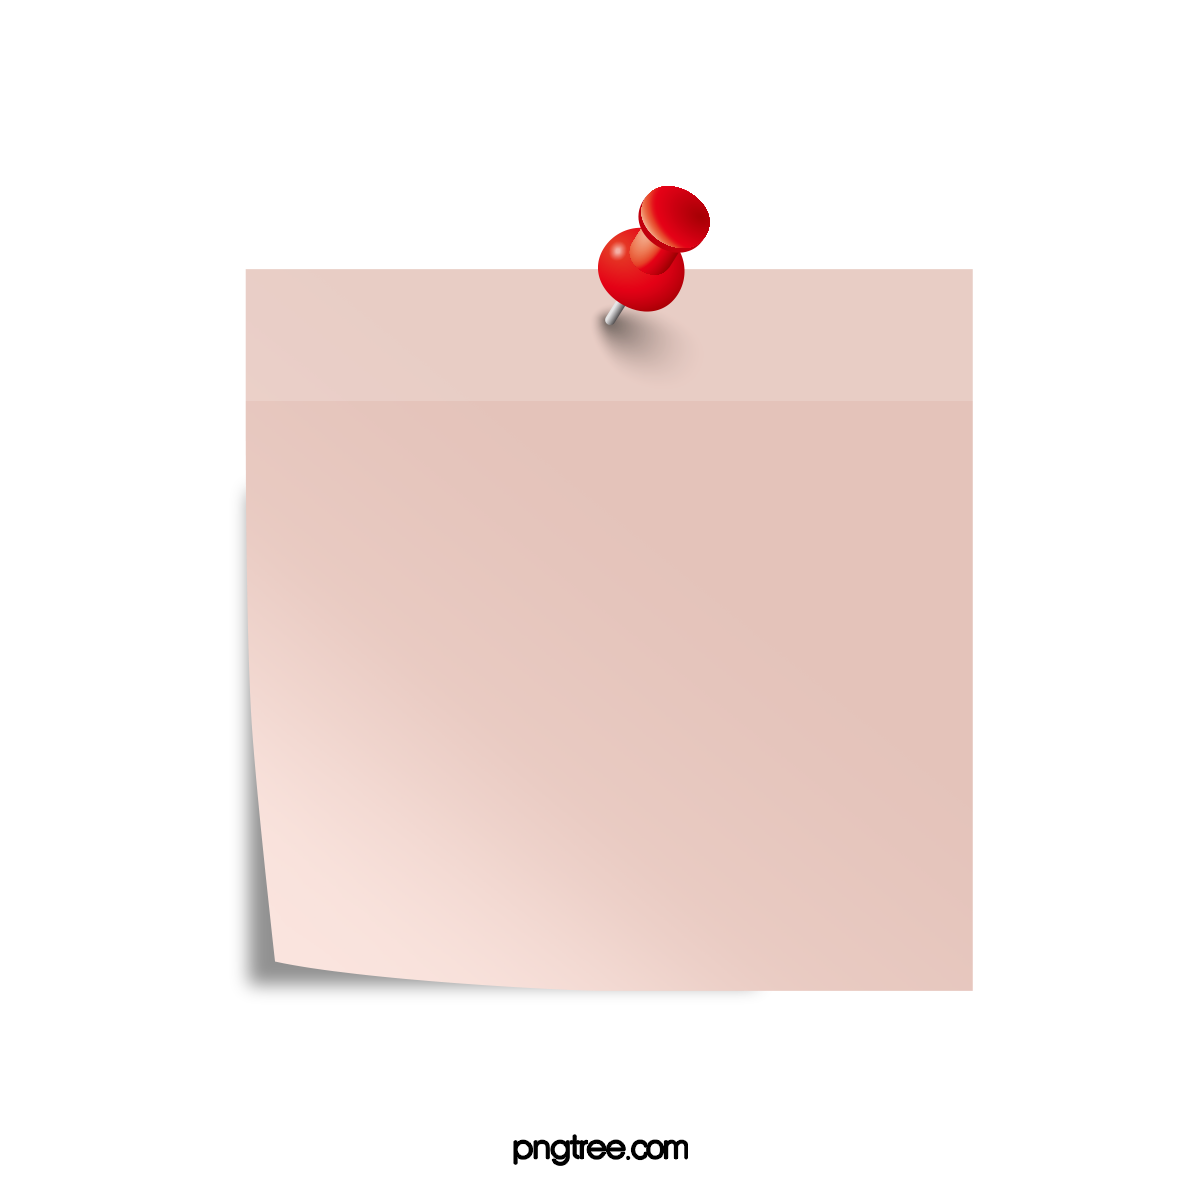
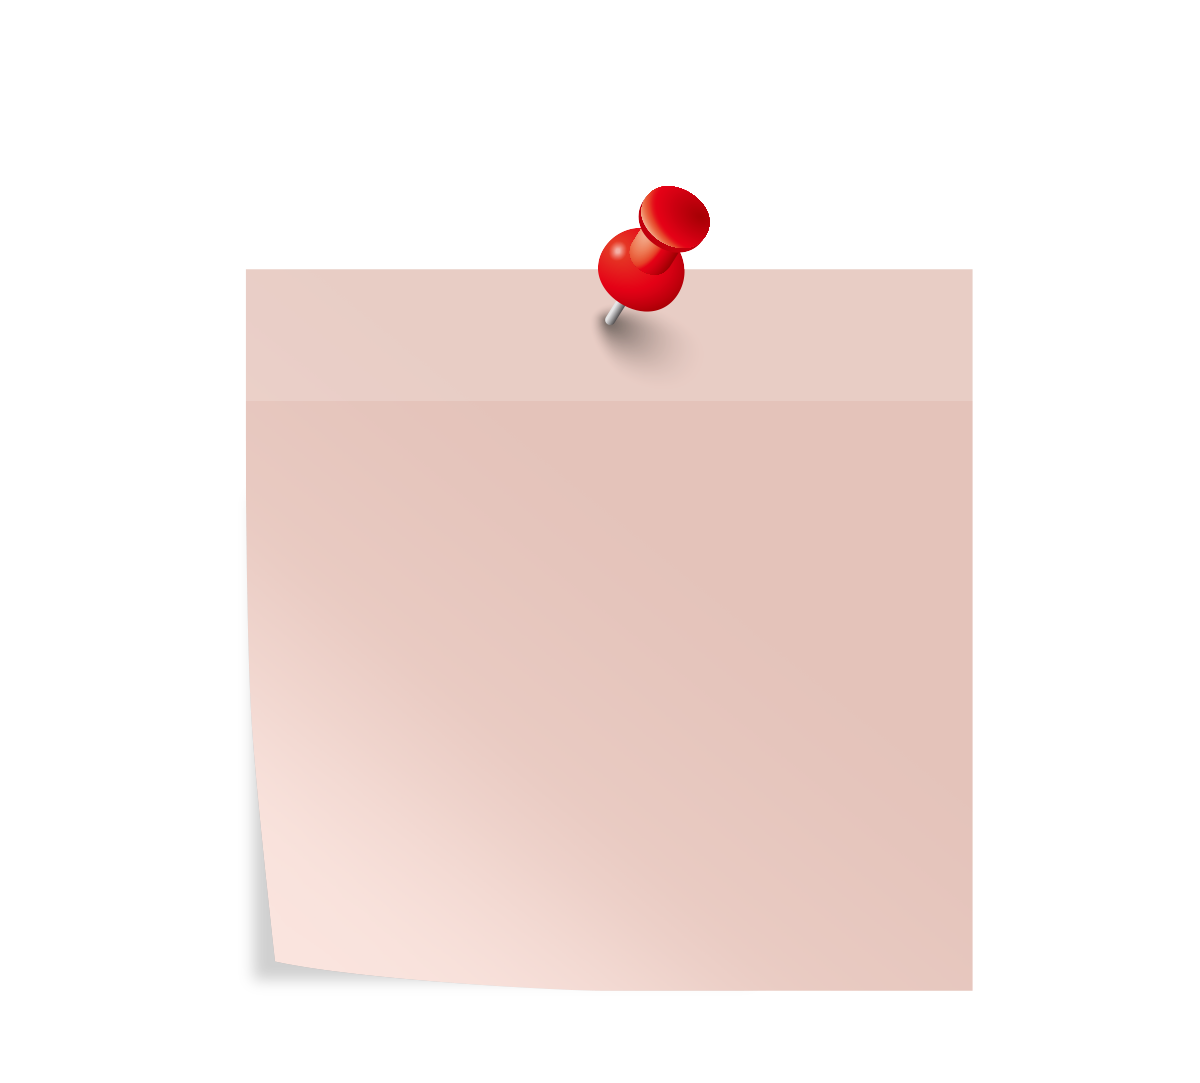
mit dem design noch nicht ganz fertig

diff --git a/src/main/webapp/bearbeiten.css b/src/main/webapp/bearbeiten.css
@@ -10,27 +10,28 @@ body {
     background: linear-gradient(135deg, #f8f9fa, #e9ecef);
     color: #333;
     display: flex;
-    justify-content: center;
+    justify-content: space-between;
     align-items: flex-start;
     padding: 40px;
     height: 100vh;
-    gap: 40px;
+    padding-top: 120px;
 }
 
 /* Notizerstellung (Linke Seite) */
 .note-form-container {
-    width: 35%;
-    background: rgba(255, 255, 255, 0.85);
-    padding: 30px;
+    width: 40%;
+    background: rgba(255, 255, 255, 0.8);
+    padding: 25px;
     border-radius: 15px;
-    box-shadow: 0 8px 25px rgba(0, 0, 0, 0.12);
-    backdrop-filter: blur(12px);
-    transition: transform 0.3s ease, box-shadow 0.3s ease;
+    box-shadow: 0 8px 25px rgba(0, 0, 0, 0.1);
+    backdrop-filter: blur(10px);
+    transition: transform 0.3s ease-in-out, box-shadow 0.3s ease-in-out;
+    margin-bottom: 30px; /* Einheitlicher Abstand */
 }
 
 .note-form-container:hover {
     transform: translateY(-5px);
-    box-shadow: 0 12px 30px rgba(0, 0, 0, 0.2);
+    box-shadow: 0 10px 30px rgba(0, 0, 0, 0.2);
 }
 
 .note-form-container h1 {
@@ -38,36 +39,38 @@ body {
     color: #007bff;
     margin-bottom: 20px;
     text-shadow: 0 0 5px rgba(0, 123, 255, 0.4);
-}.note-form-container h2 {
-     font-size: 1.8rem;
-     color: #007bff;
-     margin-bottom: 15px;
-     text-shadow: 0 0 5px rgba(0, 123, 255, 0.5);
- }
+}
+
+.note-form-container h2 {
+    font-size: 1.8rem;
+    color: #007bff;
+    margin-bottom: 15px;
+    text-shadow: 0 0 5px rgba(0, 123, 255, 0.5);
+}
 
 .note-form-container input,
 .note-form-container textarea {
     width: 100%;
     padding: 12px;
-    margin-top: 10px;
+    margin-top: 8px;
     border: 2px solid #007bff;
-    border-radius: 10px;
+    border-radius: 8px;
     font-size: 1rem;
-    background: rgba(255, 255, 255, 0.95);
+    background: rgba(255, 255, 255, 0.9);
     color: #333;
     outline: none;
     transition: border-color 0.3s, box-shadow 0.3s;
-    margin-bottom: 20px;
+    margin-bottom: 15px;
 }
 
 .note-form-container input:focus,
 .note-form-container textarea:focus {
     border-color: #0056b3;
-    box-shadow: 0 0 12px rgba(0, 123, 255, 0.3);
+    box-shadow: 0 0 10px rgba(0, 123, 255, 0.3);
 }
 
 .note-form-container textarea {
-    height: 130px;
+    height: 120px;
     resize: vertical;
 }
 
@@ -77,8 +80,8 @@ body {
     background: linear-gradient(90deg, #007bff, #0056b3);
     border: none;
     color: white;
-    font-size: 1.2rem;
-    border-radius: 10px;
+    font-size: 1.1rem;
+    border-radius: 8px;
     cursor: pointer;
     transition: background 0.3s, transform 0.2s;
     margin-top: 15px;
@@ -100,10 +103,12 @@ body {
     max-height: 80vh;
     overflow-y: auto;
     transition: transform 0.3s ease-in-out;
+    margin-bottom: 30px; /* Einheitlicher Abstand */
 }
 
 .notes-container:hover {
     transform: translateY(-5px);
+    box-shadow: 0 12px 30px rgba(0, 0, 0, 0.2);
 }
 
 .notes-container h1 {
@@ -116,14 +121,14 @@ body {
 /* Notiz-Design */
 .note-item {
     background: #fffbe6;
-    padding: 18px;
-    border-radius: 12px;
-    margin-bottom: 15px;
-    box-shadow: 0 4px 10px rgba(255, 204, 0, 0.3);
-    border-left: 6px solid #ffcc00;
+    padding: 15px;
+    border-radius: 10px;
+    margin-bottom: 15px; /* Abstand zwischen den Notizen */
+    box-shadow: 0 3px 8px rgba(255, 204, 0, 0.3);
+    border-left: 5px solid #ffcc00;
     font-size: 1.1rem;
     transition: transform 0.2s, box-shadow 0.2s;
-    position: relative;
+    cursor: pointer;
 }
 
 .note-item:hover {
@@ -187,12 +192,24 @@ body {
     color: #0056b3;
     text-shadow: 0 0 10px rgba(0, 123, 255, 0.5);
 }
-.titel h1{
-    font-size: 1.8rem;
+
+/* Titel-Container */
+.titel-container {
+    width: 100%;
+    text-align: center;
+    position: absolute;
+    top: 20px;
+    left: 50%;
+    transform: translateX(-50%);
+    font-size: 100px;
+    font-weight: bold;
+}
+
+.titel-container h1 {
+    font-size: 50px;
     color: #007bff;
     margin-bottom: 20px;
     text-shadow: 0 0 5px rgba(0, 123, 255, 0.5);
-    text-align: center;
 }
 
 /* Responsive Anpassungen */
@@ -209,11 +226,7 @@ body {
 }
 
 @media screen and (max-width: 768px) {
-    .note-form-container {
-        width: 100%;
-    }
-
-    .notes-container {
+    .note-form-container, .notes-container {
         width: 100%;
     }
 

diff --git a/src/main/webapp/notizen.css b/src/main/webapp/notizen.css
@@ -1,4 +1,3 @@
-/* Allgemeine Stile */
 * {
     margin: 0;
     padding: 0;
@@ -14,9 +13,9 @@ body {
     align-items: flex-start;
     padding: 40px;
     height: 100vh;
+    padding-top: 120px;
 }
 
-/* Notizerstellung (Linke Seite) */
 .note-form-container {
     width: 40%;
     background: rgba(255, 255, 255, 0.8);
@@ -83,7 +82,6 @@ body {
     transform: scale(1.05);
 }
 
-/* Gespeicherte Notizen (Rechte Seite) */
 .notes-container {
     width: 50%;
     background: rgba(255, 255, 255, 0.9);
@@ -98,6 +96,8 @@ body {
 
 .notes-container:hover {
     transform: translateY(-5px);
+    box-shadow: 0 12px 30px rgba(0, 0, 0, 0.2);
+
 }
 
 .notes-container h2 {
@@ -107,7 +107,6 @@ body {
     text-shadow: 0 0 5px rgba(0, 123, 255, 0.5);
 }
 
-/* Notiz-Design */
 .note-item {
     background: #fffbe6;
     padding: 15px;
@@ -126,7 +125,6 @@ body {
     background: #fff5c4;
 }
 
-/* Links */
 .links {
     position: absolute;
     bottom: 20px;
@@ -149,11 +147,21 @@ body {
     color: #0056b3;
     text-shadow: 0 0 8px rgba(0, 123, 255, 0.5);
 }
+
 .titel-container h1{
-    font-size: 1.8rem;
+    font-size: 50px;
     color: #007bff;
     margin-bottom: 20px;
     text-shadow: 0 0 5px rgba(0, 123, 255, 0.5);
-    text-align: center;
 }
 
+.titel-container {
+    width: 100%;
+    text-align: center;
+    position: absolute;
+    top: 20px; /* Abstand nach oben */
+    left: 50%;
+    transform: translateX(-50%);
+    font-size: 2rem;
+    font-weight: bold;
+}
